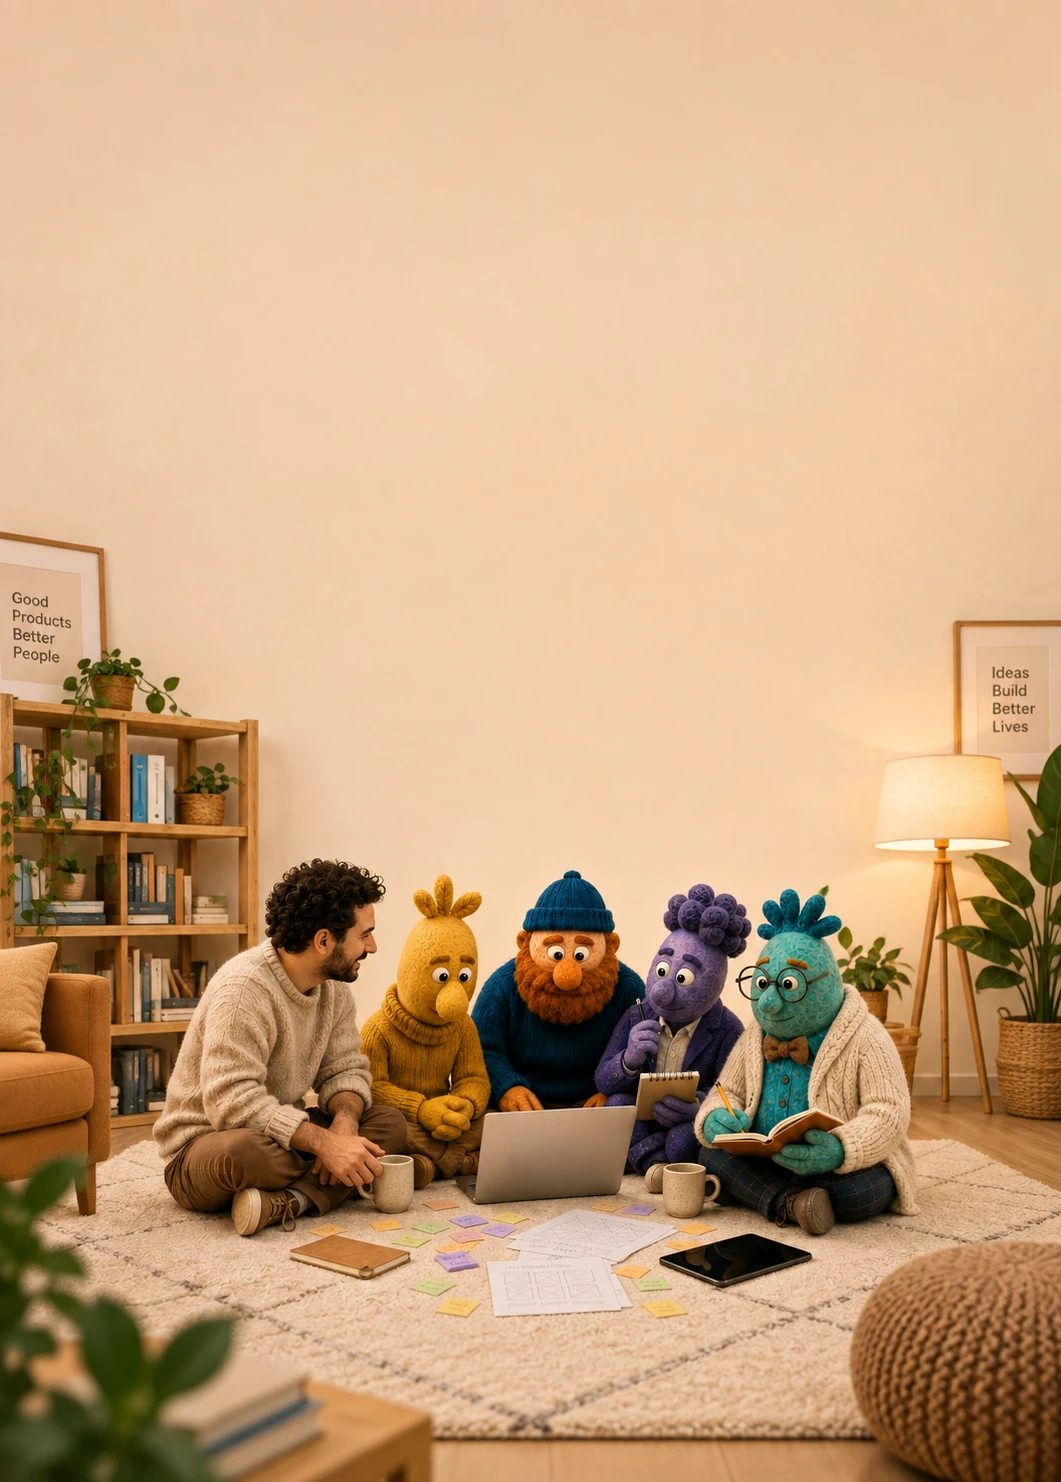
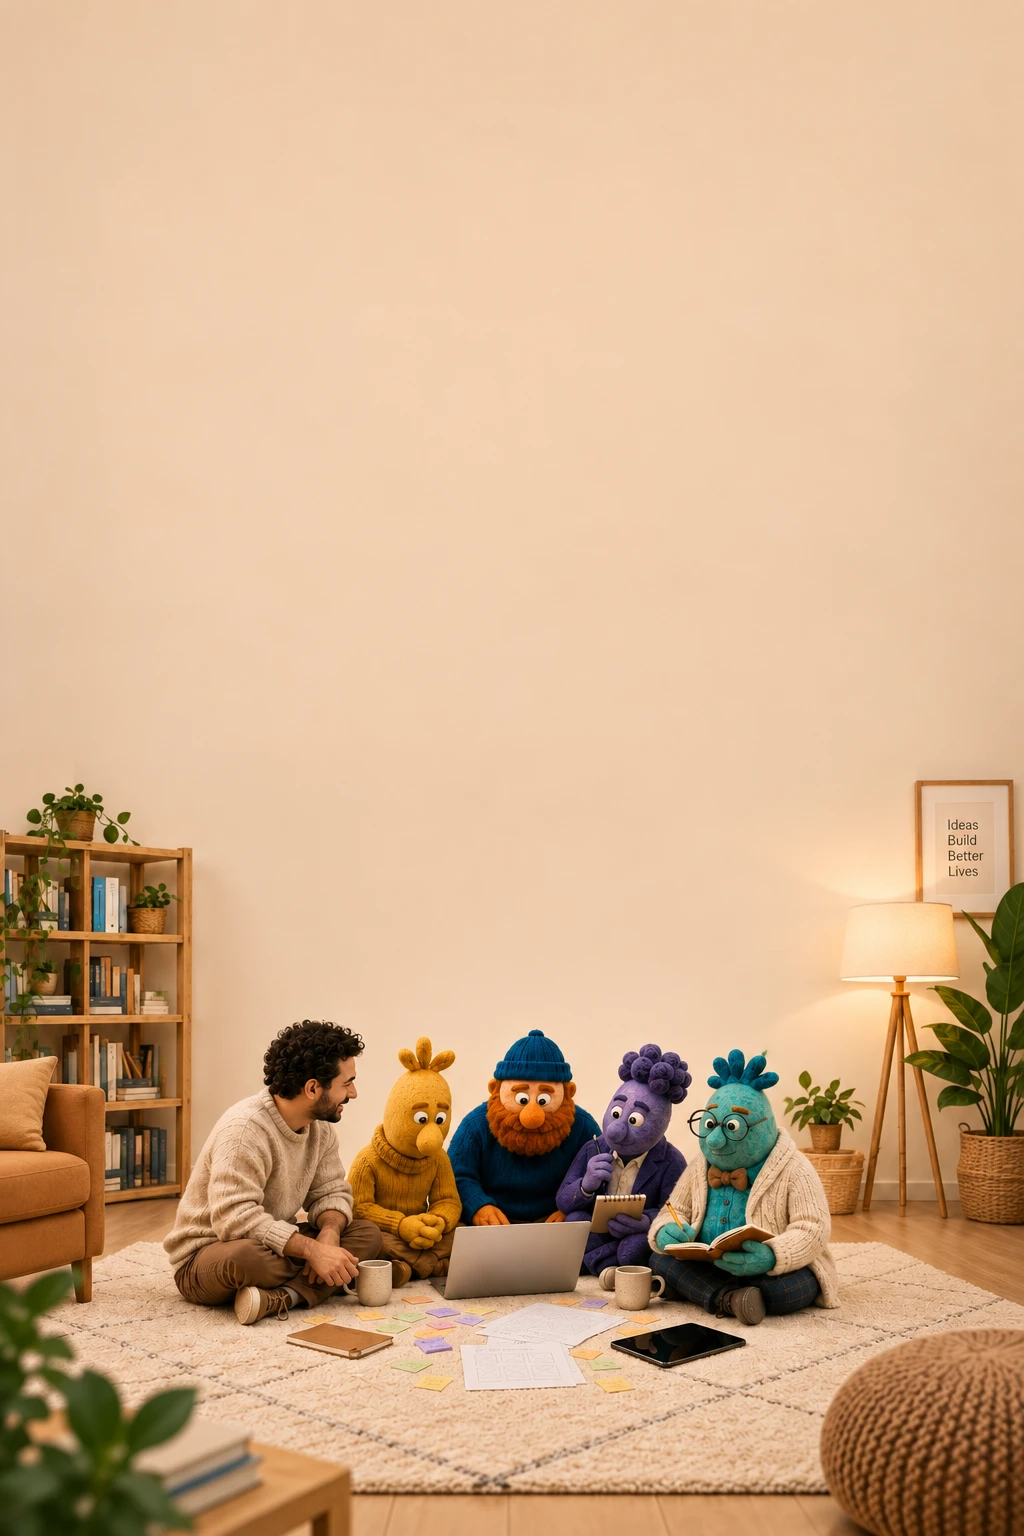
Sync staged files from ofir-agents-cloud@80ba4a3 (generic apply/ sync)

diff --git a/styles.css b/styles.css
@@ -1582,7 +1582,7 @@ body.modal-open { overflow: hidden; }
 .hero--oneview{
   position:relative; overflow:hidden; background:transparent;
   padding-top:0 !important; display:block;
-  height:auto; aspect-ratio:1061/1482;          /* portrait asset's own ratio (v2, 2026-09-08) */
+  height:auto; aspect-ratio:1024/1536;          /* portrait asset's own ratio (v3, 2026-09-08) */
   container-type:size;
 }
 @media (min-width:761px){
@@ -1697,7 +1697,16 @@ html.pl-zoom .hero__bg{ animation: hero-zoom 1200ms cubic-bezier(0.22, 0.61, 0.3
 .hero__cta .btn{
   width:200px; padding:10px 12px; font-size:12px; font-weight:700;
   border-radius:10px; line-height:1.3; text-align:center;
-  white-space:normal; border:1.5px solid transparent; cursor:pointer;
+  white-space:normal; border-width:1.5px; border-style:solid; cursor:pointer;
+}
+/* Desktop (Ofir, 2026-09-08): side by side, not stacked - mobile stays
+   stacked (declared above, unchanged). Equal width on BOTH layouts: mobile
+   gets it for free (both 200px); desktop pins both to the same min-width,
+   sized to the longer label, so neither is ever narrower than its own text
+   (white-space:nowrap - never wraps, per the standing rule). */
+@media (min-width:761px){
+  .hero__cta{ flex-direction:row; justify-content:center; gap:12px; }
+  .hero__cta .btn{ width:auto; min-width:230px; white-space:nowrap; }
 }
 .btn--accent{ background:var(--pl-accent); color:var(--pl-accent-fg); border-color:transparent; box-shadow:var(--shadow-pl-md); }
 .btn--accent:hover{ background:var(--pl-accent-hover); }

diff --git a/index.html b/index.html
@@ -60,7 +60,7 @@
   <!-- Preload the above-the-fold hero (responsive: mobile vs desktop WebP) so it
        downloads first and paints fast. Matches the <picture> media breakpoints. -->
   <link rel="preload" as="image" href="assets/hero-room.webp?v=1" type="image/webp" media="(min-width: 761px)" fetchpriority="high" />
-  <link rel="preload" as="image" href="assets/hero-room-mobile.webp?v=1" type="image/webp" media="(max-width: 760px)" fetchpriority="high" />
+  <link rel="preload" as="image" href="assets/hero-room-mobile.webp?v=3" type="image/webp" media="(max-width: 760px)" fetchpriority="high" />
   <link rel="preconnect" href="https://fonts.googleapis.com" />
   <link rel="preconnect" href="https://fonts.gstatic.com" crossorigin />
   <link href="https://fonts.googleapis.com/css2?family=Inter:wght@400;500;600;700&family=Heebo:wght@400;500;600;700&display=swap" rel="stylesheet" />

diff --git a/app.js b/app.js
@@ -1141,7 +1141,7 @@ function render(lang) {
       </div>
     </div>
     <picture class="hero__bg">
-      <source type="image/webp" media="(max-width: 760px)" srcset="assets/hero-room-mobile.webp?v=2" />
+      <source type="image/webp" media="(max-width: 760px)" srcset="assets/hero-room-mobile.webp?v=3" />
       <source type="image/webp" srcset="assets/hero-room.webp?v=1" />
       <img class="hero__img is-loaded" src="assets/hero-room.webp?v=1" alt="" width="2560" height="1440" fetchpriority="high" decoding="async" />
     </picture>
